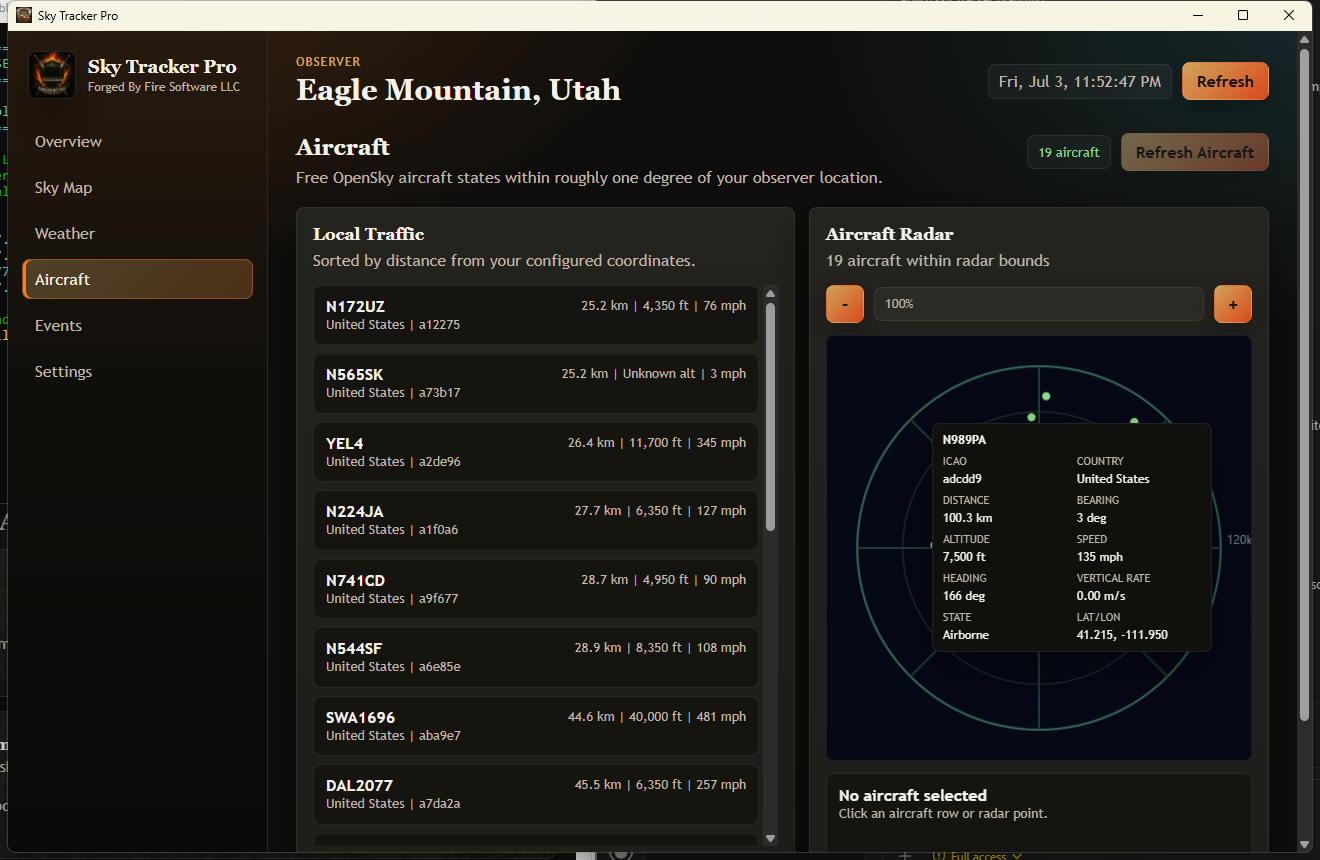
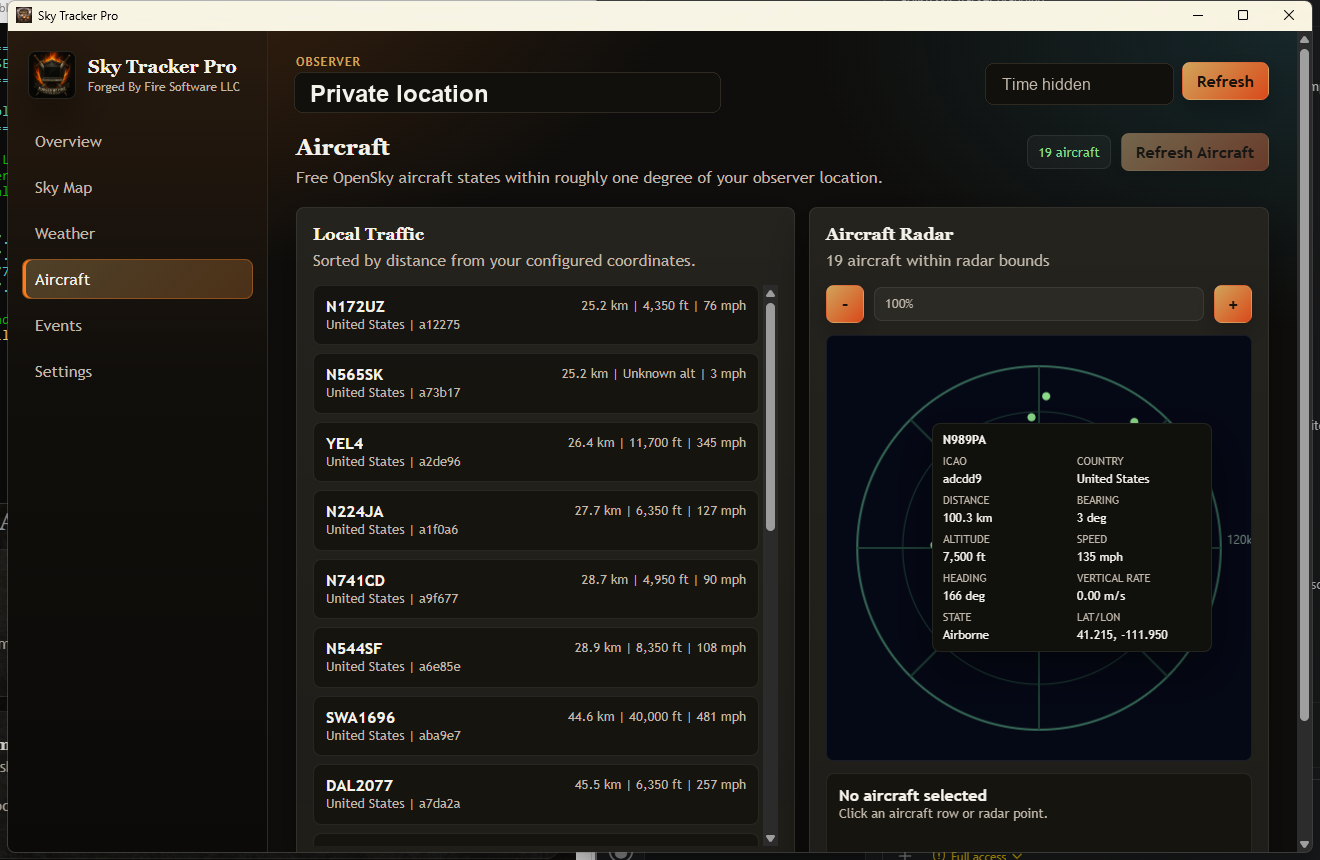
Switch downloads to portable ZIPs

Changed region(s): [[0.7455, 0.0605, 0.9008, 0.1209], [0.2174, 0.0907, 0.4659, 0.1209]]

diff --git a/downloads.html b/downloads.html
@@ -39,21 +39,21 @@
           </div>
           <h3>PC Purifier</h3>
           <p class="muted">Current version: <strong>v2.0.0</strong> (Free)</p>
-          <p class="muted">Signed installer. Free official release download.</p>
+          <p class="muted">Portable ZIP. Free official release download.</p>
           <div class="cta-row">
             <a
               class="btn btn-primary"
-              href="https://github.com/cmforgedbyfire/cmforgedbyfire.com/releases/download/pc-purifier-v2.0.0/PCPurifierSetup_2.0.0.exe"
+              href="https://github.com/cmforgedbyfire/cmforgedbyfire.com/releases/download/pc-purifier-v2.0.0/PCPurifier_v2.0.0_Windows_Portable.zip"
               download
             >
               Download PC Purifier Free
             </a>
           </div>
-          <p class="muted small-top">No GitHub account required. The button uses the official cmforgedbyfire release download.</p>
+          <p class="muted small-top">No GitHub account required. Download the ZIP, extract it, then run PCPurifier.exe.</p>
           <div class="note security-note">
-            <strong>Signed and Verified</strong>
+            <strong>Portable ZIP</strong>
             <p>
-              This installer is code-signed and timestamped. Windows may still warn while a download is new or uncommon.
+              Windows may still warn while a download is new or uncommon. Only run files downloaded from this site or the official GitHub release.
             </p>
           </div>
         </div>
@@ -65,10 +65,10 @@
           <h3>FORGE</h3>
           <p class="muted">Current version: <strong>v1.0.2</strong> (Free)</p>
           <p class="muted">
-            Local-first release-readiness toolkit available as an official release download.
+            Local-first release-readiness toolkit available as a portable ZIP download.
           </p>
           <div class="cta-row">
-            <a class="btn btn-primary" href="https://github.com/cmforgedbyfire/cmforgedbyfire.com/releases/download/forge-v1.0.2/FORGE_v1.0.2_Setup.exe" download>
+            <a class="btn btn-primary" href="https://github.com/cmforgedbyfire/cmforgedbyfire.com/releases/download/forge-v1.0.2/FORGE_v1.0.2_Windows_Portable.zip" download>
               Download FORGE Free
             </a>
             <a class="btn btn-ghost" href="forge.html">Product page</a>
@@ -76,7 +76,7 @@
           <div class="note security-note">
             <strong>Local-first</strong>
             <p>
-              FORGE works without accounts or cloud sync. Optional AI features only use the endpoint you configure.
+              Download the ZIP, extract it, then run FORGE.exe. Optional AI features only use the endpoint you configure.
             </p>
           </div>
         </div>
@@ -92,13 +92,12 @@
           </div>
           <h3>Master Generator</h3>
           <p class="muted">Current version: <strong>v1.0.0</strong> (Free)</p>
-          <p class="muted">Downloadable Windows Electron app for fantasy tabletop campaign material.</p>
+          <p class="muted">Portable Windows Electron app for fantasy tabletop campaign material.</p>
           <div class="cta-row">
-            <a class="btn btn-primary" href="https://github.com/cmforgedbyfire/cmforgedbyfire.com/releases/download/master-generator-v1.0.0/MasterGenerator_v1.0.0.exe">Launch Free</a>
-            <a class="btn btn-ghost" href="https://github.com/cmforgedbyfire/cmforgedbyfire.com/releases/download/master-generator-v1.0.0/MasterGenerator_v1.0.0.exe">Download Free</a>
+            <a class="btn btn-primary" href="https://github.com/cmforgedbyfire/cmforgedbyfire.com/releases/download/master-generator-v1.0.0/MasterGenerator_v1.0.0_Windows_Portable.zip" download>Download Free</a>
             <a class="btn btn-ghost" href="master-generator.html">Product page</a>
           </div>
-          <p class="muted small-top">No GitHub account required. The Launch Free button downloads the official release file.</p>
+          <p class="muted small-top">No GitHub account required. Download the ZIP, extract it, then run Master Generator.exe.</p>
         </div>
 
         <div class="panel">
@@ -123,7 +122,7 @@
         <p class="muted"><strong>How do I download?</strong> Use the free buttons above. Some large files may download from our official GitHub Releases link.</p>
         <p class="muted"><strong>Do I need GitHub?</strong> No account is required. Some large app files may download from our official GitHub Releases link.</p>
         <p class="muted"><strong>Is it free?</strong> Yes. These listed downloads are free.</p>
-          <p class="muted"><strong>Why does Windows warn me?</strong> SmartScreen may warn that any new installer is not commonly downloaded yet. If you started from this site or the official cmforgedbyfire GitHub release, open the downloads menu, choose Keep, then choose Keep anyway when prompted.</p>
+        <p class="muted"><strong>Why does Windows warn me?</strong> SmartScreen may warn that any new download is not commonly downloaded yet. If you started from this site or the official cmforgedbyfire GitHub release, open the downloads menu, choose Keep, then choose Keep anyway when prompted.</p>
         <div class="warning-shot-grid">
           <figure class="warning-shot">
             <img src="assets/screenshots/download-warnings/browser-keep-menu.png" alt="Browser downloads menu showing the Keep option" loading="lazy" />

diff --git a/software.html b/software.html
@@ -58,10 +58,9 @@
             <img src="assets/screenshots/master-generator/master-generator-main.png" alt="Master Generator NPC generator and campaign vault" loading="lazy" />
           </div>
           <div class="card-actions">
-            <a class="btn btn-primary" href="https://github.com/cmforgedbyfire/cmforgedbyfire.com/releases/download/master-generator-v1.0.0/MasterGenerator_v1.0.0.exe">Launch Free</a>
-            <a class="btn btn-ghost" href="https://github.com/cmforgedbyfire/cmforgedbyfire.com/releases/download/master-generator-v1.0.0/MasterGenerator_v1.0.0.exe">Download Free</a>
+            <a class="btn btn-primary" href="https://github.com/cmforgedbyfire/cmforgedbyfire.com/releases/download/master-generator-v1.0.0/MasterGenerator_v1.0.0_Windows_Portable.zip" download>Download Free</a>
             <a class="btn btn-ghost" href="master-generator.html">Details</a>
-            <span class="download-meta">v1.0.0 - Windows Electron app - 90.0 MB</span>
+            <span class="download-meta">v1.0.0 - Windows portable ZIP - 157.5 MB</span>
           </div>
         </article>
 
@@ -101,9 +100,9 @@
             <img src="assets/screenshots/pcpurifier/pcp_system.png" alt="PC Purifier system information screen" loading="lazy" />
           </div>
           <div class="card-actions">
-            <a class="btn btn-primary" href="https://github.com/cmforgedbyfire/cmforgedbyfire.com/releases/download/pc-purifier-v2.0.0/PCPurifierSetup_2.0.0.exe" download>Download Free</a>
+            <a class="btn btn-primary" href="https://github.com/cmforgedbyfire/cmforgedbyfire.com/releases/download/pc-purifier-v2.0.0/PCPurifier_v2.0.0_Windows_Portable.zip" download>Download Free</a>
             <a class="btn btn-ghost" href="pcpurifier.html">Details</a>
-            <span class="download-meta">v2.0.0 - Windows installer - 44.6 MB</span>
+            <span class="download-meta">v2.0.0 - Windows portable ZIP - 44.6 MB</span>
           </div>
         </article>
 
@@ -122,9 +121,9 @@
             <img src="assets/screenshots/forge/forge_screenshots.png" alt="FORGE screenshots module" loading="lazy" />
           </div>
           <div class="card-actions">
-            <a class="btn btn-primary" href="https://github.com/cmforgedbyfire/cmforgedbyfire.com/releases/download/forge-v1.0.2/FORGE_v1.0.2_Setup.exe" download>Download Free</a>
+            <a class="btn btn-primary" href="https://github.com/cmforgedbyfire/cmforgedbyfire.com/releases/download/forge-v1.0.2/FORGE_v1.0.2_Windows_Portable.zip" download>Download Free</a>
             <a class="btn btn-ghost" href="forge.html">Details</a>
-            <span class="download-meta">v1.0.2 - Windows installer - 75.8 MB</span>
+            <span class="download-meta">v1.0.2 - Windows portable ZIP - 76.8 MB</span>
           </div>
         </article>
       </div>
@@ -134,7 +133,7 @@
       <h3 class="section-title">Windows Download Warning</h3>
       <div class="panel">
         <p class="muted">
-          Microsoft Defender SmartScreen may warn that a Windows installer is not commonly downloaded yet.
+          Microsoft Defender SmartScreen may warn that a Windows download is not commonly downloaded yet.
           This can happen with any new free software on this site.
         </p>
         <p class="muted">

diff --git a/forge.html b/forge.html
@@ -42,7 +42,7 @@
           release checks, docs, screenshots, packaging, and a clean folder people can understand.
         </p>
         <div class="cta-row">
-          <a class="btn btn-primary" href="https://github.com/cmforgedbyfire/cmforgedbyfire.com/releases/download/forge-v1.0.2/FORGE_v1.0.2_Setup.exe" download>
+          <a class="btn btn-primary" href="https://github.com/cmforgedbyfire/cmforgedbyfire.com/releases/download/forge-v1.0.2/FORGE_v1.0.2_Windows_Portable.zip" download>
             Download FORGE Free
           </a>
           <a class="btn btn-ghost" href="software.html">Software Library</a>
@@ -101,10 +101,11 @@
       <div class="panel">
         <p class="muted"><strong>Version:</strong> 1.0.2</p>
         <p class="muted"><strong>Platform:</strong> Windows</p>
-        <p class="muted"><strong>Installer size:</strong> 75.8 MB</p>
+        <p class="muted"><strong>File:</strong> Portable ZIP, 76.8 MB</p>
         <p class="muted"><strong>Cost:</strong> Free</p>
+        <p class="muted"><strong>How to run:</strong> Download the ZIP, extract it, then open <strong>FORGE.exe</strong>.</p>
         <div class="cta-row">
-          <a class="btn btn-primary" href="https://github.com/cmforgedbyfire/cmforgedbyfire.com/releases/download/forge-v1.0.2/FORGE_v1.0.2_Setup.exe" download>
+          <a class="btn btn-primary" href="https://github.com/cmforgedbyfire/cmforgedbyfire.com/releases/download/forge-v1.0.2/FORGE_v1.0.2_Windows_Portable.zip" download>
             Download FORGE Free
           </a>
           <a class="btn btn-ghost" href="downloads.html">All Downloads</a>
@@ -116,18 +117,18 @@
       <h3 class="section-title">Windows Download Warning</h3>
       <div class="panel">
         <p class="muted">
-          Microsoft Defender SmartScreen may warn that a Windows installer from this site is not commonly downloaded yet.
+          Microsoft Defender SmartScreen may warn that a Windows download from this site is not commonly downloaded yet.
           This can happen with new free software even when the file came directly from the developer.
         </p>
         <p class="muted">
           Only continue if the file was downloaded from <strong>cmforgedbyfire.com</strong>.
         </p>
         <ol class="bullets">
-          <li>In the browser downloads panel, open the menu next to the installer.</li>
+          <li>In the browser downloads panel, open the menu next to the ZIP.</li>
           <li>Choose <strong>Keep</strong>.</li>
           <li>If Windows shows "Make sure you trust this file", open the small arrow beside Delete.</li>
           <li>Choose <strong>Keep anyway</strong>.</li>
-          <li>Open the installer from your Downloads folder.</li>
+          <li>Extract the ZIP and open <strong>FORGE.exe</strong>.</li>
         </ol>
         <p class="muted">
           If you are not comfortable continuing, delete the file and email

diff --git a/master-generator.html b/master-generator.html
@@ -42,8 +42,7 @@
           NPCs, taverns, towns, monsters, loot, dungeons, regions, shops, names, magic items, and encounters.
         </p>
         <div class="cta-row">
-          <a class="btn btn-primary" href="https://github.com/cmforgedbyfire/cmforgedbyfire.com/releases/download/master-generator-v1.0.0/MasterGenerator_v1.0.0.exe">Launch Free</a>
-          <a class="btn btn-ghost" href="https://github.com/cmforgedbyfire/cmforgedbyfire.com/releases/download/master-generator-v1.0.0/MasterGenerator_v1.0.0.exe">Download Free</a>
+          <a class="btn btn-primary" href="https://github.com/cmforgedbyfire/cmforgedbyfire.com/releases/download/master-generator-v1.0.0/MasterGenerator_v1.0.0_Windows_Portable.zip" download>Download Free</a>
           <a class="btn btn-ghost" href="software.html">Software Library</a>
         </div>
         <div class="pill-row">
@@ -97,12 +96,12 @@
       <div class="panel">
         <p class="muted"><strong>Version:</strong> 1.0.0</p>
         <p class="muted"><strong>Platform:</strong> Windows Electron desktop app</p>
-        <p class="muted"><strong>File:</strong> Portable EXE, 90.0 MB</p>
+        <p class="muted"><strong>File:</strong> Portable ZIP, 157.5 MB</p>
         <p class="muted"><strong>Cost:</strong> Free</p>
+        <p class="muted"><strong>How to run:</strong> Download the ZIP, extract it, then open <strong>Master Generator.exe</strong>.</p>
         <p class="muted"><strong>Privacy:</strong> Saves stay on your computer unless you export a campaign file yourself.</p>
         <div class="cta-row">
-          <a class="btn btn-primary" href="https://github.com/cmforgedbyfire/cmforgedbyfire.com/releases/download/master-generator-v1.0.0/MasterGenerator_v1.0.0.exe">Launch Free</a>
-          <a class="btn btn-ghost" href="https://github.com/cmforgedbyfire/cmforgedbyfire.com/releases/download/master-generator-v1.0.0/MasterGenerator_v1.0.0.exe">Download Free</a>
+          <a class="btn btn-primary" href="https://github.com/cmforgedbyfire/cmforgedbyfire.com/releases/download/master-generator-v1.0.0/MasterGenerator_v1.0.0_Windows_Portable.zip" download>Download Free</a>
           <a class="btn btn-ghost" href="downloads.html">All Downloads</a>
         </div>
       </div>
@@ -120,7 +119,7 @@
           <li>Choose <strong>Keep</strong>.</li>
           <li>If Windows shows "Make sure you trust this file", open the small arrow beside Delete.</li>
           <li>Choose <strong>Keep anyway</strong>.</li>
-          <li>Open the EXE from your Downloads folder.</li>
+          <li>Extract the ZIP and open <strong>Master Generator.exe</strong>.</li>
         </ol>
         <div class="warning-shot-grid">
           <figure class="warning-shot">

diff --git a/pcpurifier.html b/pcpurifier.html
@@ -39,7 +39,7 @@
     },
     "description": "Windows optimization tool with cleanup, health monitoring, shield tools, and Privacy Dashboard.",
     "softwareVersion": "2.0.0",
-    "downloadUrl": "https://github.com/cmforgedbyfire/cmforgedbyfire.com/releases/download/pc-purifier-v2.0.0/PCPurifierSetup_2.0.0.exe",
+    "downloadUrl": "https://github.com/cmforgedbyfire/cmforgedbyfire.com/releases/download/pc-purifier-v2.0.0/PCPurifier_v2.0.0_Windows_Portable.zip",
     "author": {
       "@type": "Organization",
       "name": "Forged By Fire Software LLC"
@@ -83,7 +83,7 @@
         </p>
 
         <div class="cta-row">
-          <a class="btn btn-primary" href="https://github.com/cmforgedbyfire/cmforgedbyfire.com/releases/download/pc-purifier-v2.0.0/PCPurifierSetup_2.0.0.exe" download>
+          <a class="btn btn-primary" href="https://github.com/cmforgedbyfire/cmforgedbyfire.com/releases/download/pc-purifier-v2.0.0/PCPurifier_v2.0.0_Windows_Portable.zip" download>
             Download PC Purifier Free
           </a>
           <a class="btn btn-ghost" href="software.html">Software Library</a>
@@ -92,7 +92,7 @@
         <div class="note security-note">
           <strong>Signed and Verified</strong>
           <p>
-            PC Purifier v2.0.0 is digitally signed by <strong>Forged By Fire Software LLC</strong>.
+            PC Purifier v2.0.0 is now offered as a portable ZIP.
             Windows may still show a warning while a download is new or uncommon.
           </p>
         </div>
@@ -176,7 +176,8 @@
       <div class="panel">
         <p class="muted"><strong>How do I download?</strong> Use the free download button above or the Software page.</p>
         <p class="muted"><strong>Do I need GitHub?</strong> No account is required. The button uses the official cmforgedbyfire release download.</p>
-        <p class="muted"><strong>Why does Windows warn me?</strong> SmartScreen may warn that any new installer is not commonly downloaded yet. If you downloaded the file from this site, open the downloads menu, choose Keep, then choose Keep anyway when prompted.</p>
+        <p class="muted"><strong>How do I run it?</strong> Download the ZIP, extract it, then open PCPurifier.exe.</p>
+        <p class="muted"><strong>Why does Windows warn me?</strong> SmartScreen may warn that any new download is not commonly downloaded yet. If you downloaded the file from this site, open the downloads menu, choose Keep, then choose Keep anyway when prompted.</p>
         <p class="muted"><strong>Will I get updates?</strong> Yes. New free builds will be posted on the site as they are ready.</p>
       </div>
     </section>

diff --git a/system-requirements.html b/system-requirements.html
@@ -223,8 +223,8 @@
       <div class="panel">
         <h3>Runtime Dependencies</h3>
         <p>
-          All our Windows applications include their required runtimes (.NET) in the installer.
-          You don't need to install anything separately - just run the setup and go.
+          Current public downloads are portable ZIPs where practical. Extract the ZIP and run the app EXE inside.
+          Some future installer builds may include their required runtimes directly.
         </p>
       </div>
 
@@ -240,7 +240,7 @@
         <h3>Antivirus Compatibility</h3>
         <p>
           Our releases are designed to work with major antivirus software. Windows Defender SmartScreen may still warn
-          when an installer is new or not commonly downloaded yet.
+          when a download is new or not commonly downloaded yet.
         </p>
       </div>
 

diff --git a/faq.html b/faq.html
@@ -175,8 +175,8 @@
       <div class="panel">
         <h3>Why does Windows say a download is not commonly downloaded?</h3>
         <p>
-          Microsoft Defender SmartScreen can warn about new installers until enough people have downloaded and trusted them.
-          This can happen with any new Windows installer on the site.
+          Microsoft Defender SmartScreen can warn about new downloads until enough people have downloaded and trusted them.
+          This can happen with any new Windows app on the site.
           If you started from cmforgedbyfire.com or the official cmforgedbyfire GitHub release, open the downloads menu, choose Keep, then choose Keep anyway.
         </p>
         <p class="muted">